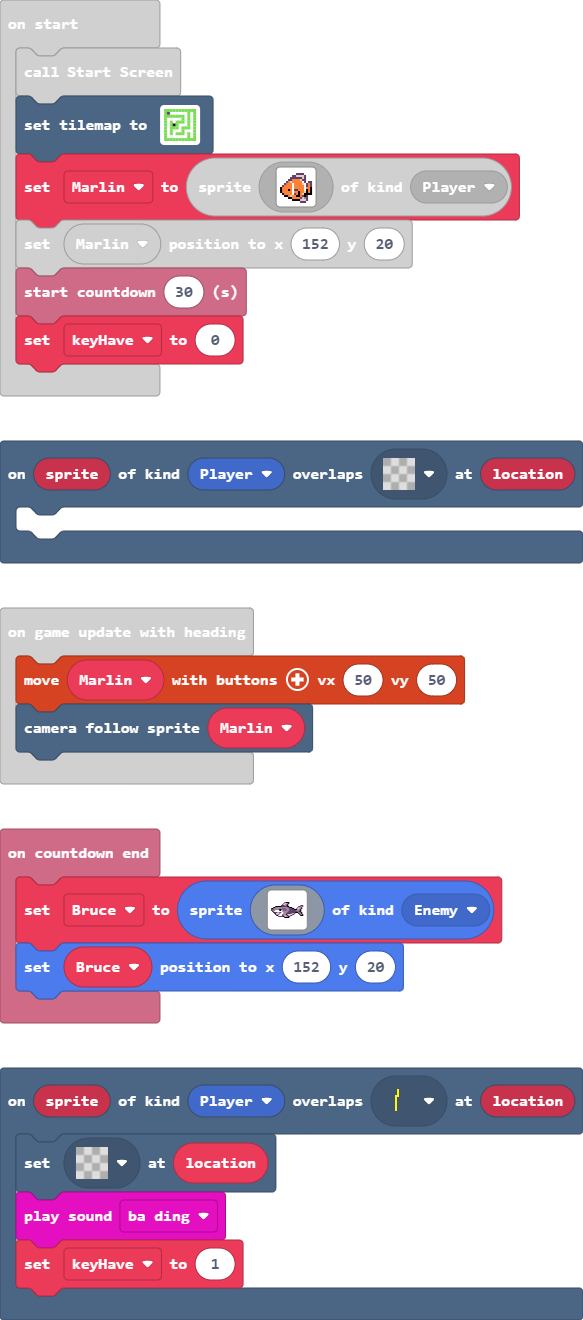
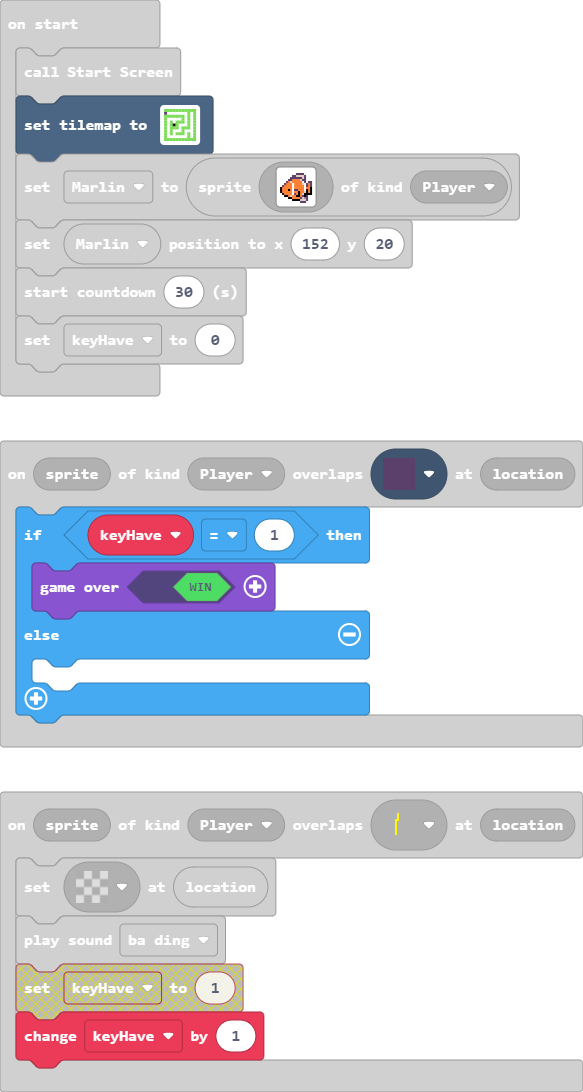
Update main.blocks, main.ts

diff --git a/main.ts b/main.ts
@@ -1,14 +1,18 @@
 scene.onOverlapTile(SpriteKind.Player, myTiles.tile3, function (sprite, location) {
     tiles.setTileAt(location, myTiles.transparency16)
     music.baDing.play()
-    keyHave = 1
+    keyHave += 1
+})
+scene.onOverlapTile(SpriteKind.Player, myTiles.tile4, function (sprite, location) {
+    if (keyHave == 1) {
+        game.over(true)
+    } else {
+    	
+    }
 })
 game.onGameUpdateWithHeading(function () {
     controller.moveSprite(Marlin, 50, 50)
     scene.cameraFollowSprite(Marlin)
-})
-scene.onOverlapTile(SpriteKind.Player, myTiles.transparency16, function (sprite, location) {
-	
 })
 function Start_Screen () {
     game.showLongText("This is my game. - By a Clemson First-Year Student", DialogLayout.Bottom)
@@ -38,9 +42,9 @@ let Bruce: Sprite = null
 let keyHave = 0
 let Marlin: Sprite = null
 Start_Screen()
[2 lines of base64/hex data omitted]
     2 2 2 2 2 2 2 2 2 2 2 
-    2 . . . . . . . 2 . 2 
+    . . . . . . . . 2 . 2 
     2 2 2 2 2 2 2 . 2 . 2 
     2 . . . . . 2 . 2 . 2 
     2 . 2 . 2 2 2 . 2 . 2 
